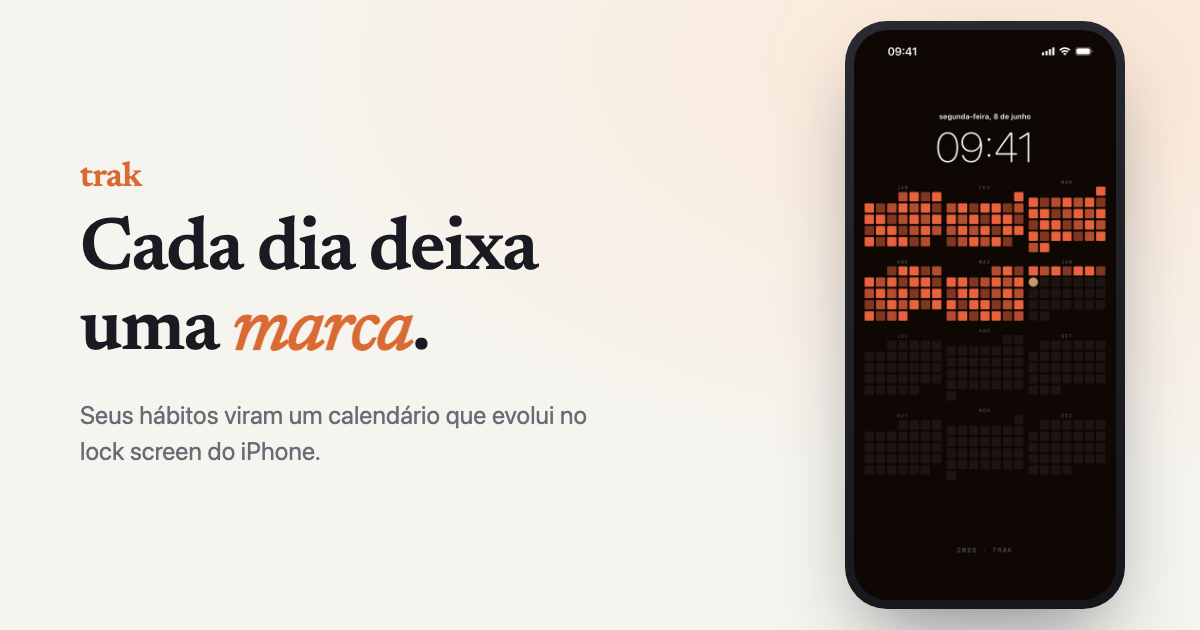
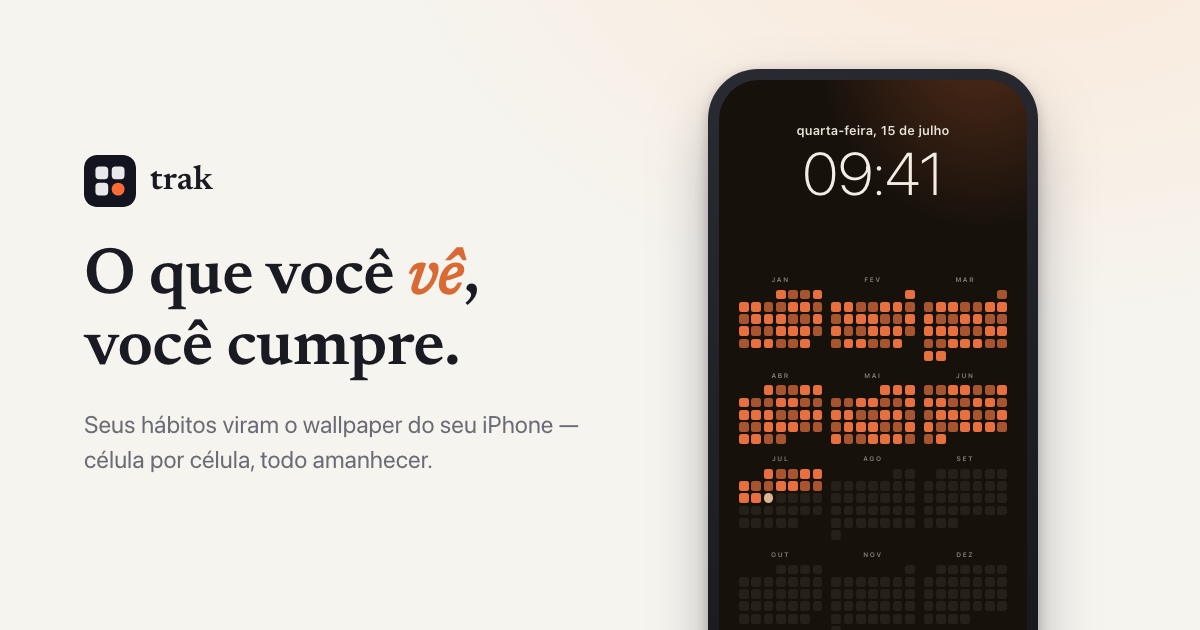
feat: og.png v2 com o headline do punch-up (#4)
Card 1200x630 refeito: 'O que você vê, você cumpre.' + mockup do lock
screen (mesmas células do hero, animação desligada). Harness versionado
em scripts/og.html com instruções de regeneração.

diff --git a/scripts/og.html b/scripts/og.html
@@ -1,0 +1,46 @@
+<!DOCTYPE html>
+<!-- Harness do og.png (1200x630). Gerar com:
+     python3 -m http.server 8766 &
+     Chrome headless --window-size=1200,630 --screenshot=img/og.png http://localhost:8766/scripts/og.html
+     (células copiadas do index.html — regenerar este arquivo se o hero mudar) -->
+<html lang="pt-BR"><head><meta charset="UTF-8">
+<link rel="stylesheet" href="/style.css">
+<style>
+  html,body{width:1200px;height:630px;overflow:hidden}
+  body{display:flex;align-items:center;gap:64px;padding:0 0 0 84px;
+    background:radial-gradient(90% 120% at 85% -20%, var(--accent-soft) 0%, rgba(251,231,214,0) 60%), var(--bg);}
+  .og-text{flex:1;max-width:560px}
+  .og-brand{display:flex;align-items:center;gap:14px;font-family:var(--serif);font-weight:600;font-size:2.1rem;margin-bottom:34px}
+  .og-brand img{width:52px;height:52px;border-radius:13px}
+  .og-text h1{font-size:4.1rem;line-height:1.08;margin:0 0 22px}
+  .og-text p{font-size:1.5rem;color:var(--muted);margin:0;line-height:1.45}
+  .og-phone{width:330px;margin-top:200px;flex-shrink:0}
+  .og-phone .phone{width:330px;padding:11px;border-radius:50px}
+  .og-phone .ls{border-radius:40px;padding:40px 18px 34px}
+  .og-phone .ls-clock{font-size:60px}
+  .og-phone .ls-date{font-size:.8rem}
+  .mg i.a,.mg i.b,.mg i.t{animation:none!important;background:var(--c)}
+</style></head><body>
+  <div class="og-text">
+    <div class="og-brand"><img src="/img/logo-mark.svg" alt=""> trak</div>
+    <h1>O que você <span class="serif-em">vê</span>,<br>você cumpre.</h1>
+    <p>Seus hábitos viram o wallpaper do seu iPhone — célula por célula, todo amanhecer.</p>
+  </div>
+  <div class="og-phone"><div class="phone"><div class="ls">
+    <div class="ls-top"><span class="ls-date">quarta-feira, 15 de julho</span><span class="ls-clock">09:41</span></div>
+    <div class="ls-cal"><!-- gerado por scripts/gen_lockscreen.py — 196 dias acesos, anim ~2.5s -->
+          <span class="mo"><b>jan</b><span class="mg"><u></u><u></u><u></u><i class="a" style="--d:0.35s"></i><i class="b" style="--d:0.36s"></i><i class="b" style="--d:0.37s"></i><i class="a" style="--d:0.38s"></i><i class="a" style="--d:0.39s"></i><i class="a" style="--d:0.40s"></i><i class="b" style="--d:0.42s"></i><i class="b" style="--d:0.43s"></i><i class="a" style="--d:0.44s"></i><i class="a" style="--d:0.45s"></i><i class="b" style="--d:0.46s"></i><i class="b" style="--d:0.47s"></i><i class="a" style="--d:0.48s"></i><i class="a" style="--d:0.49s"></i><i class="a" style="--d:0.50s"></i><i class="b" style="--d:0.51s"></i><i class="b" style="--d:0.53s"></i><i class="a" style="--d:0.54s"></i><i class="a" style="--d:0.55s"></i><i class="b" style="--d:0.56s"></i><i class="b" style="--d:0.57s"></i><i class="a" style="--d:0.58s"></i><i class="a" style="--d:0.59s"></i><i class="a" style="--d:0.60s"></i><i class="b" style="--d:0.61s"></i><i class="b" style="--d:0.62s"></i><i class="a" style="--d:0.64s"></i><i class="a" style="--d:0.65s"></i><i class="b" style="--d:0.66s"></i><i class="b" style="--d:0.67s"></i><i class="a" style="--d:0.68s"></i></span></span>
+          <span class="mo"><b>fev</b><span class="mg"><u></u><u></u><u></u><u></u><u></u><u></u><i class="a" style="--d:0.69s"></i><i class="a" style="--d:0.70s"></i><i class="a" style="--d:0.71s"></i><i class="b" style="--d:0.72s"></i><i class="b" style="--d:0.73s"></i><i class="a" style="--d:0.75s"></i><i class="a" style="--d:0.76s"></i><i class="b" style="--d:0.77s"></i><i class="b" style="--d:0.78s"></i><i class="a" style="--d:0.79s"></i><i class="a" style="--d:0.80s"></i><i class="a" style="--d:0.81s"></i><i class="b" style="--d:0.82s"></i><i class="b" style="--d:0.83s"></i><i class="a" style="--d:0.84s"></i><i class="a" style="--d:0.86s"></i><i class="b" style="--d:0.87s"></i><i class="b" style="--d:0.88s"></i><i class="a" style="--d:0.89s"></i><i class="a" style="--d:0.90s"></i><i class="a" style="--d:0.91s"></i><i class="b" style="--d:0.92s"></i><i class="b" style="--d:0.93s"></i><i class="a" style="--d:0.94s"></i><i class="a" style="--d:0.95s"></i><i class="b" style="--d:0.97s"></i><i class="b" style="--d:0.98s"></i><i class="a" style="--d:0.99s"></i></span></span>
+          <span class="mo"><b>mar</b><span class="mg"><u></u><u></u><u></u><u></u><u></u><u></u><i class="b" style="--d:1.00s"></i><i class="b" style="--d:1.01s"></i><i class="a" style="--d:1.02s"></i><i class="a" style="--d:1.03s"></i><i class="b" style="--d:1.04s"></i><i class="b" style="--d:1.05s"></i><i class="a" style="--d:1.06s"></i><i class="a" style="--d:1.08s"></i><i class="a" style="--d:1.09s"></i><i class="b" style="--d:1.10s"></i><i class="b" style="--d:1.11s"></i><i class="a" style="--d:1.12s"></i><i class="a" style="--d:1.13s"></i><i class="b" style="--d:1.14s"></i><i class="b" style="--d:1.15s"></i><i class="a" style="--d:1.16s"></i><i class="a" style="--d:1.17s"></i><i class="a" style="--d:1.19s"></i><i class="b" style="--d:1.20s"></i><i class="b" style="--d:1.21s"></i><i class="a" style="--d:1.22s"></i><i class="a" style="--d:1.23s"></i><i class="b" style="--d:1.24s"></i><i class="b" style="--d:1.25s"></i><i class="a" style="--d:1.26s"></i><i class="a" style="--d:1.27s"></i><i class="a" style="--d:1.28s"></i><i class="b" style="--d:1.30s"></i><i class="b" style="--d:1.31s"></i><i class="a" style="--d:1.32s"></i><i class="a" style="--d:1.33s"></i></span></span>
+          <span class="mo"><b>abr</b><span class="mg"><u></u><u></u><i class="a" style="--d:1.34s"></i><i class="b" style="--d:1.35s"></i><i class="b" style="--d:1.36s"></i><i class="a" style="--d:1.37s"></i><i class="a" style="--d:1.38s"></i><i class="a" style="--d:1.40s"></i><i class="b" style="--d:1.41s"></i><i class="b" style="--d:1.42s"></i><i class="a" style="--d:1.43s"></i><i class="a" style="--d:1.44s"></i><i class="b" style="--d:1.45s"></i><i class="b" style="--d:1.46s"></i><i class="a" style="--d:1.47s"></i><i class="a" style="--d:1.48s"></i><i class="a" style="--d:1.49s"></i><i class="b" style="--d:1.50s"></i><i class="b" style="--d:1.52s"></i><i class="a" style="--d:1.53s"></i><i class="a" style="--d:1.54s"></i><i class="b" style="--d:1.55s"></i><i class="b" style="--d:1.56s"></i><i class="a" style="--d:1.57s"></i><i class="a" style="--d:1.58s"></i><i class="a" style="--d:1.59s"></i><i class="b" style="--d:1.60s"></i><i class="b" style="--d:1.61s"></i><i class="a" style="--d:1.63s"></i><i class="a" style="--d:1.64s"></i><i class="b" style="--d:1.65s"></i><i class="b" style="--d:1.66s"></i></span></span>
+          <span class="mo"><b>mai</b><span class="mg"><u></u><u></u><u></u><u></u><i class="a" style="--d:1.67s"></i><i class="a" style="--d:1.68s"></i><i class="a" style="--d:1.69s"></i><i class="b" style="--d:1.70s"></i><i class="b" style="--d:1.71s"></i><i class="a" style="--d:1.73s"></i><i class="a" style="--d:1.74s"></i><i class="b" style="--d:1.75s"></i><i class="b" style="--d:1.76s"></i><i class="a" style="--d:1.77s"></i><i class="a" style="--d:1.78s"></i><i class="a" style="--d:1.79s"></i><i class="b" style="--d:1.80s"></i><i class="b" style="--d:1.81s"></i><i class="a" style="--d:1.82s"></i><i class="a" style="--d:1.83s"></i><i class="b" style="--d:1.85s"></i><i class="b" style="--d:1.86s"></i><i class="a" style="--d:1.87s"></i><i class="a" style="--d:1.88s"></i><i class="a" style="--d:1.89s"></i><i class="b" style="--d:1.90s"></i><i class="b" style="--d:1.91s"></i><i class="a" style="--d:1.92s"></i><i class="a" style="--d:1.93s"></i><i class="b" style="--d:1.94s"></i><i class="b" style="--d:1.96s"></i><i class="a" style="--d:1.97s"></i><i class="a" style="--d:1.98s"></i><i class="a" style="--d:1.99s"></i><i class="b" style="--d:2.00s"></i></span></span>
+          <span class="mo"><b>jun</b><span class="mg"><i class="b" style="--d:2.01s"></i><i class="b" style="--d:2.02s"></i><i class="a" style="--d:2.03s"></i><i class="a" style="--d:2.04s"></i><i class="b" style="--d:2.05s"></i><i class="b" style="--d:2.07s"></i><i class="a" style="--d:2.08s"></i><i class="a" style="--d:2.09s"></i><i class="a" style="--d:2.10s"></i><i class="b" style="--d:2.11s"></i><i class="b" style="--d:2.12s"></i><i class="a" style="--d:2.13s"></i><i class="a" style="--d:2.14s"></i><i class="b" style="--d:2.15s"></i><i class="b" style="--d:2.17s"></i><i class="a" style="--d:2.18s"></i><i class="a" style="--d:2.19s"></i><i class="a" style="--d:2.20s"></i><i class="b" style="--d:2.21s"></i><i class="b" style="--d:2.22s"></i><i class="a" style="--d:2.23s"></i><i class="a" style="--d:2.24s"></i><i class="b" style="--d:2.25s"></i><i class="b" style="--d:2.26s"></i><i class="a" style="--d:2.27s"></i><i class="a" style="--d:2.29s"></i><i class="a" style="--d:2.30s"></i><i class="b" style="--d:2.31s"></i><i class="b" style="--d:2.32s"></i><i class="a" style="--d:2.33s"></i></span></span>
+          <span class="mo"><b>jul</b><span class="mg"><u></u><u></u><i class="a" style="--d:2.34s"></i><i class="b" style="--d:2.35s"></i><i class="b" style="--d:2.36s"></i><i class="a" style="--d:2.37s"></i><i class="a" style="--d:2.38s"></i><i class="a" style="--d:2.40s"></i><i class="b" style="--d:2.41s"></i><i class="b" style="--d:2.42s"></i><i class="a" style="--d:2.43s"></i><i class="a" style="--d:2.44s"></i><i class="b" style="--d:2.45s"></i><i class="b" style="--d:2.46s"></i><i class="a" style="--d:2.47s"></i><i class="a" style="--d:2.48s"></i><i class="t" style="--d:2.50s"></i><i></i><i></i><i></i><i></i><i></i><i></i><i></i><i></i><i></i><i></i><i></i><i></i><i></i><i></i><i></i><i></i></span></span>
+          <span class="mo"><b>ago</b><span class="mg"><u></u><u></u><u></u><u></u><u></u><i></i><i></i><i></i><i></i><i></i><i></i><i></i><i></i><i></i><i></i><i></i><i></i><i></i><i></i><i></i><i></i><i></i><i></i><i></i><i></i><i></i><i></i><i></i><i></i><i></i><i></i><i></i><i></i><i></i><i></i><i></i></span></span>
+          <span class="mo"><b>set</b><span class="mg"><u></u><i></i><i></i><i></i><i></i><i></i><i></i><i></i><i></i><i></i><i></i><i></i><i></i><i></i><i></i><i></i><i></i><i></i><i></i><i></i><i></i><i></i><i></i><i></i><i></i><i></i><i></i><i></i><i></i><i></i><i></i></span></span>
+          <span class="mo"><b>out</b><span class="mg"><u></u><u></u><u></u><i></i><i></i><i></i><i></i><i></i><i></i><i></i><i></i><i></i><i></i><i></i><i></i><i></i><i></i><i></i><i></i><i></i><i></i><i></i><i></i><i></i><i></i><i></i><i></i><i></i><i></i><i></i><i></i><i></i><i></i><i></i></span></span>
+          <span class="mo"><b>nov</b><span class="mg"><u></u><u></u><u></u><u></u><u></u><u></u><i></i><i></i><i></i><i></i><i></i><i></i><i></i><i></i><i></i><i></i><i></i><i></i><i></i><i></i><i></i><i></i><i></i><i></i><i></i><i></i><i></i><i></i><i></i><i></i><i></i><i></i><i></i><i></i><i></i><i></i></span></span>
+          <span class="mo"><b>dez</b><span class="mg"><u></u><i></i><i></i><i></i><i></i><i></i><i></i><i></i><i></i><i></i><i></i><i></i><i></i><i></i><i></i><i></i><i></i><i></i><i></i><i></i><i></i><i></i><i></i><i></i><i></i><i></i><i></i><i></i><i></i><i></i><i></i><i></i></span></span></div>
+    <div class="ls-foot">2026&ensp;·&ensp;trak</div>
+  </div></div></div>
+</body></html>
